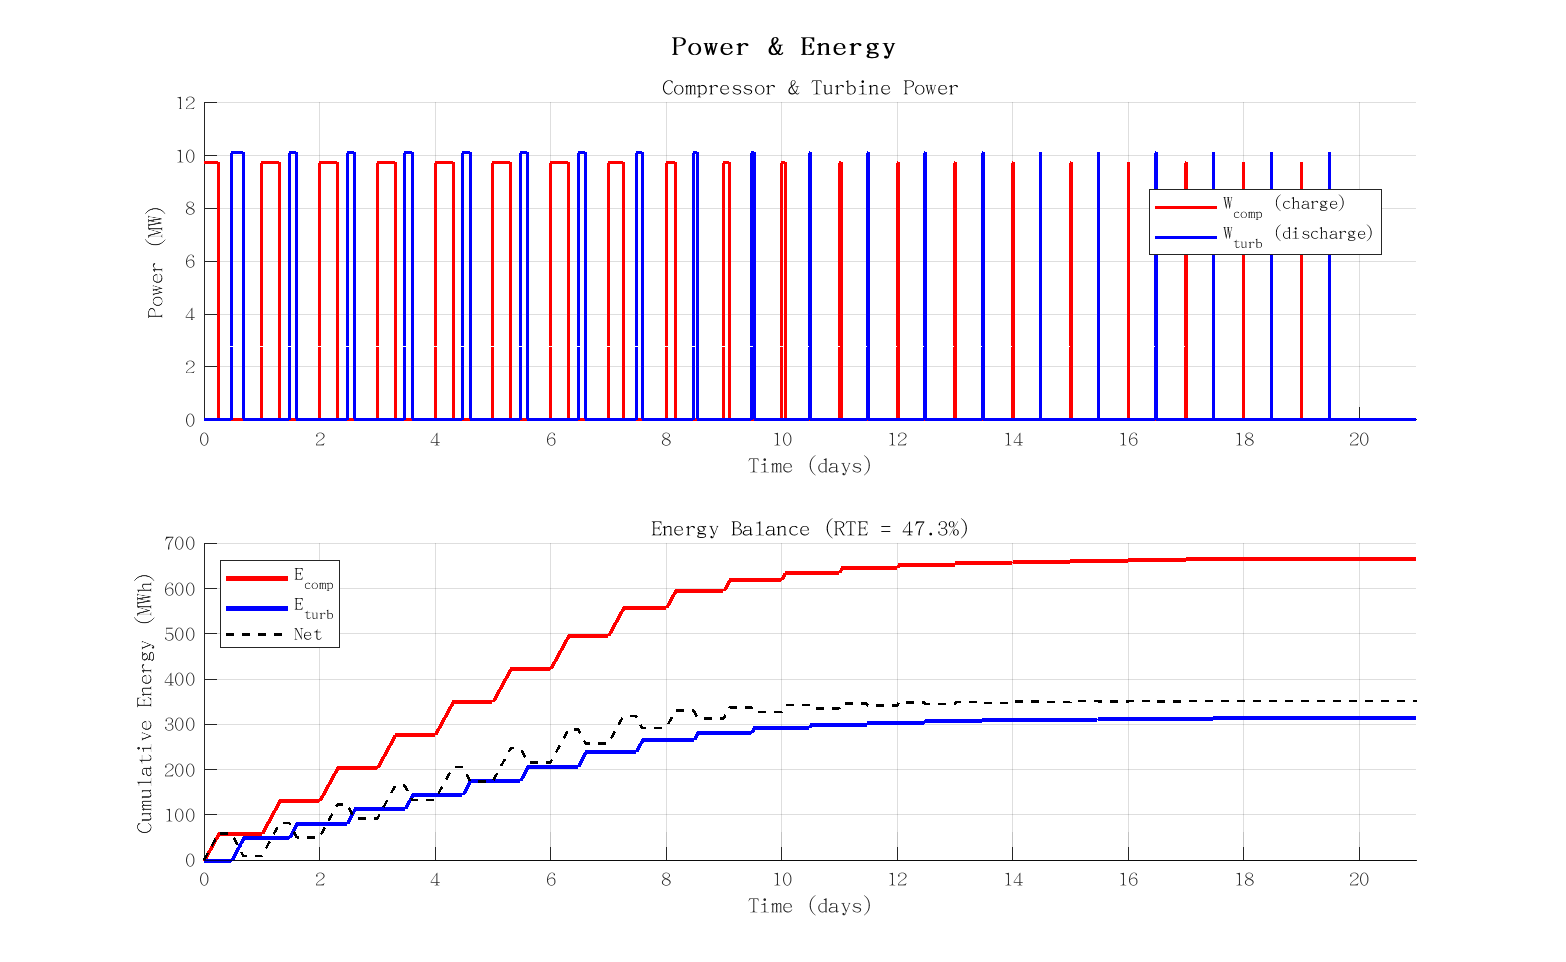
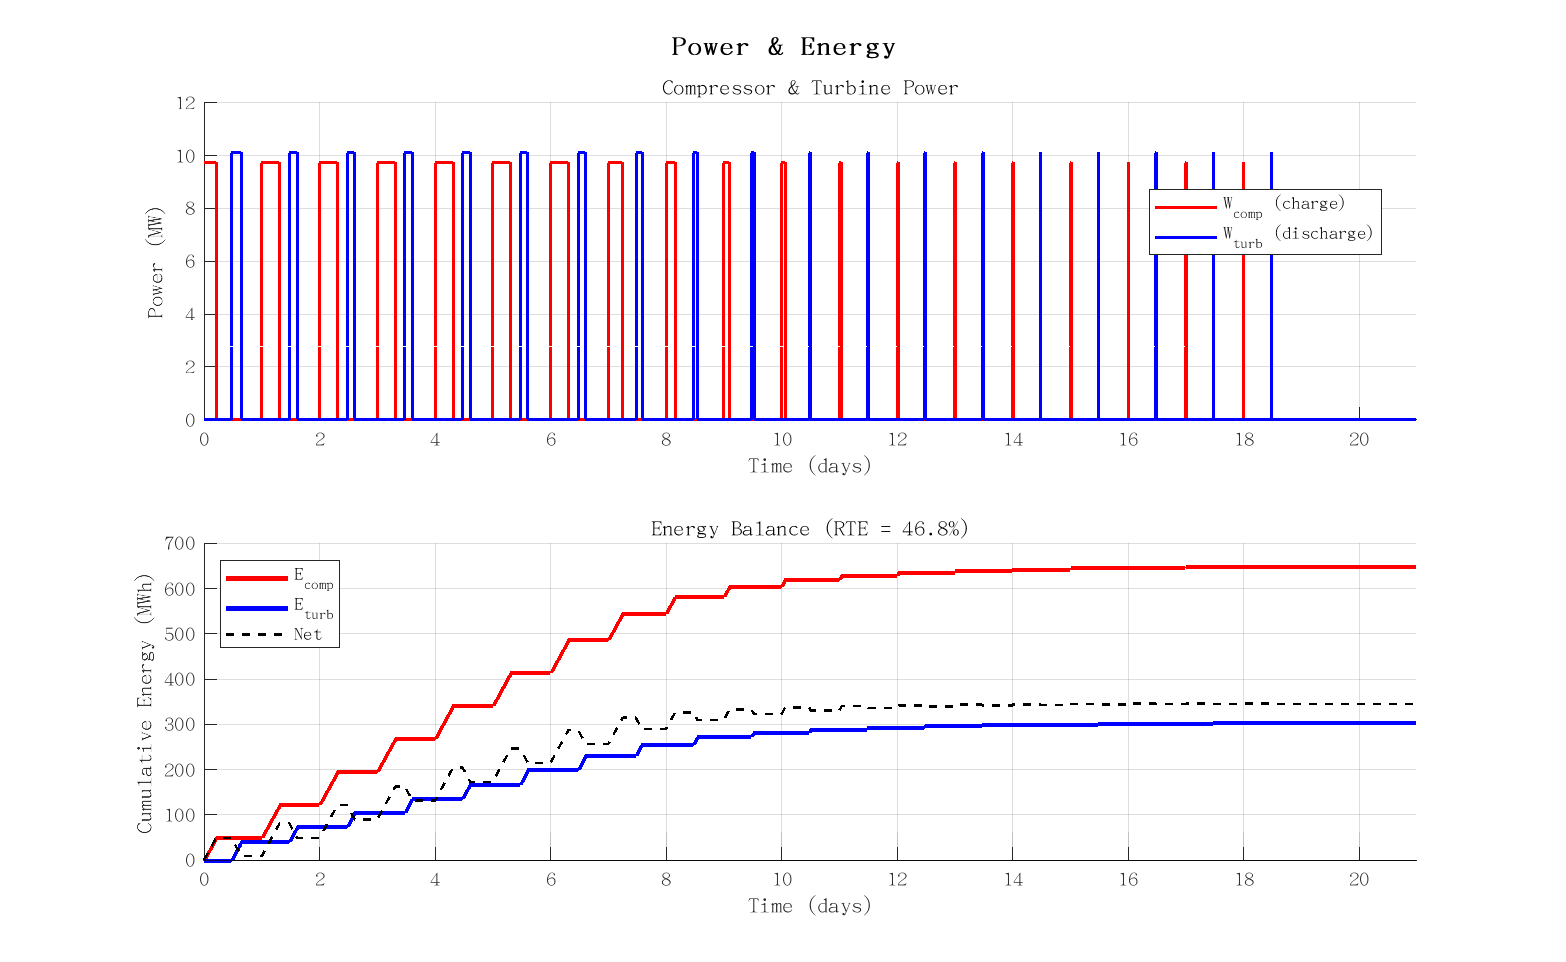
fix: relax HTV constraints to 10-90%, discharge to 4h for thermal balance

diff --git a/CCES_CHP_Simulink/src/ode/ode_dynamics.m b/CCES_CHP_Simulink/src/ode/ode_dynamics.m
@@ -43,15 +43,15 @@ end
 t_h = mod(t/3600, 24);
 if t_h < 7.5;       mode = 1;
 elseif t_h < 11.5;   mode = 0;
-elseif t_h < 16.5;   mode = -1;
+elseif t_h < 15.5;   mode = -1;  % 放电4h (热平衡)
 else;                mode = 0;
 end
 
 % 约束
 P_ok_ch  = m_HPT < m_sat_liq * 0.995;
 P_ok_dis = m_HPT > m_sat_vap * 1.05;
-Q_ok_ch  = V_hot < V_total * 0.98;
-Q_ok_dis = V_hot > V_total * 0.02;
+Q_ok_ch  = V_hot < V_total * 0.90;
+Q_ok_dis = V_hot > V_total * 0.10;
 T_heat = T_hot;  % 恒温热油 → CO2 加热温度恒定为设计值
 
 rho_cp = rho_oil * cp_oil;  % kJ/m³K
